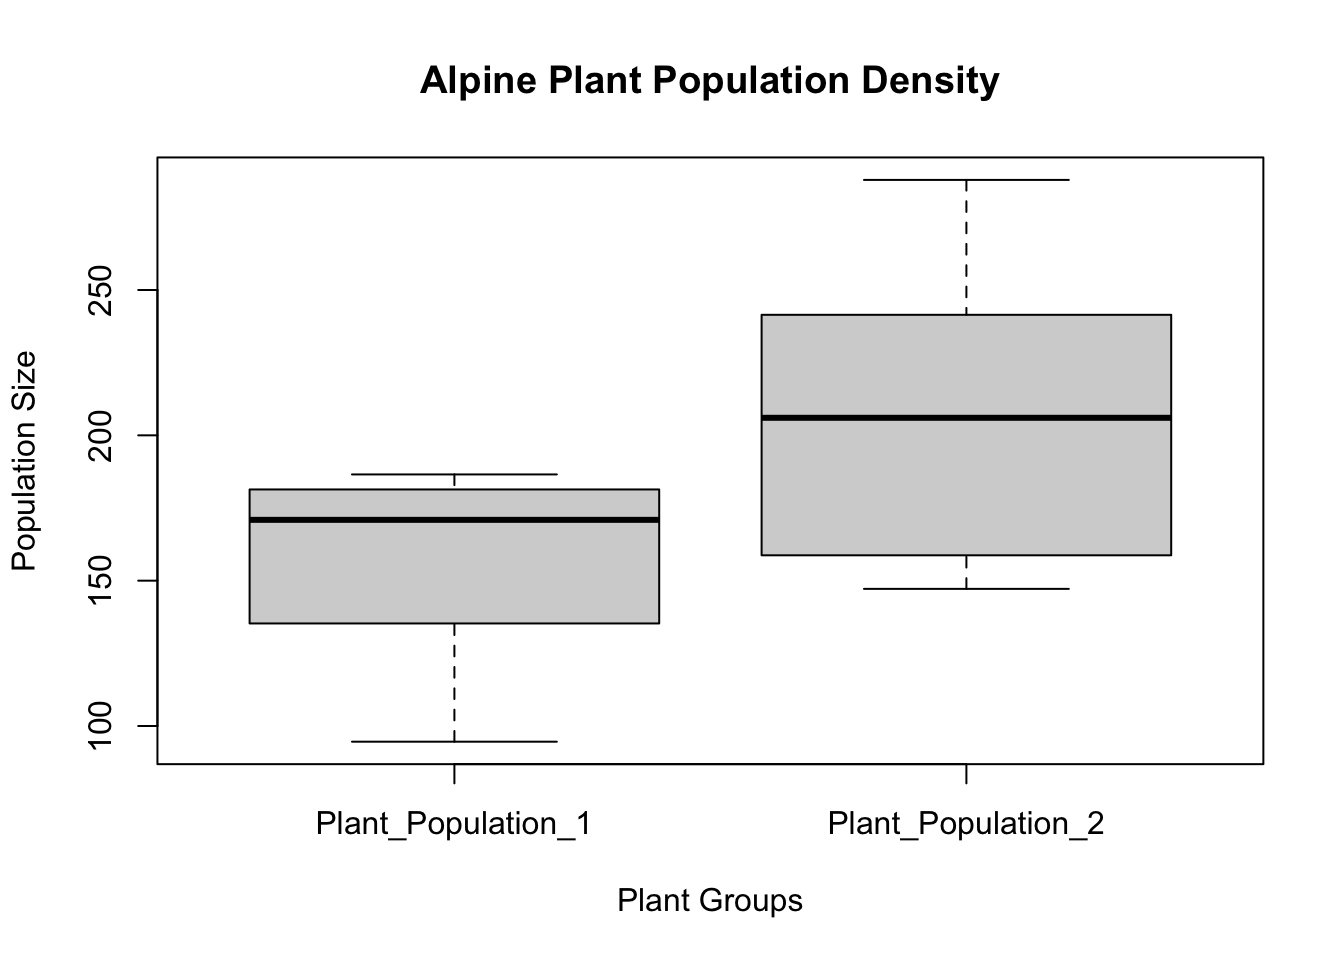
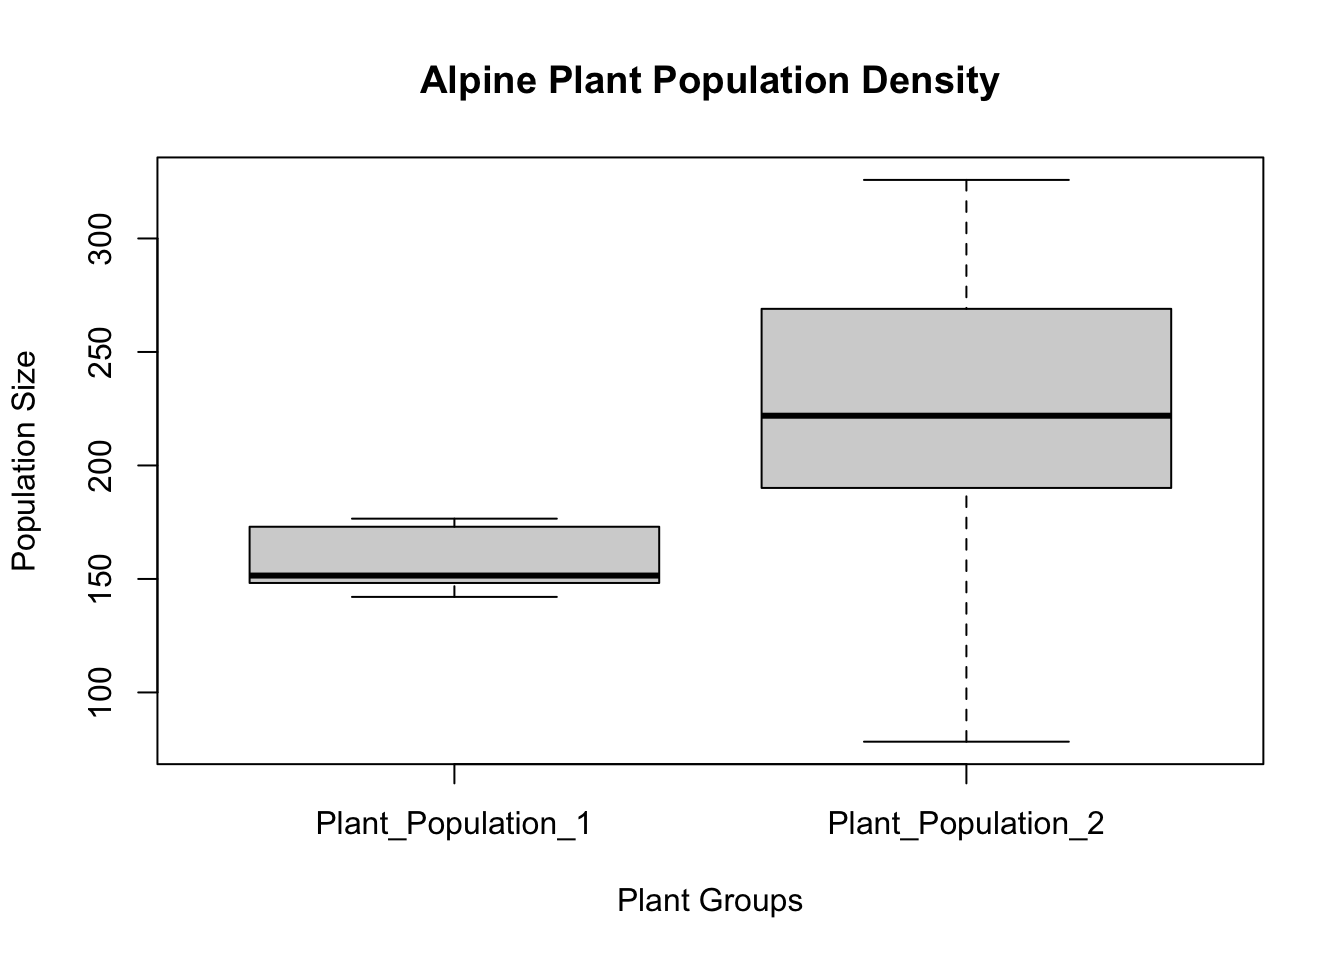
a bunch of updates

diff --git a/docs/homework6.html b/docs/homework6.html
@@ -281,36 +281,36 @@ northeast.</p>
 plantpopulation2 &lt;- rnorm(n=10, mean = 200, sd = 50)
 summary(plantpopulation1)</code></pre>
 <pre><code>##    Min. 1st Qu.  Median    Mean 3rd Qu.    Max. 
-##    94.6   140.5   170.9   158.8   180.5   186.5</code></pre>
+##   142.1   148.4   151.5   158.1   172.9   176.6</code></pre>
 <pre class="r"><code>summary(plantpopulation2)</code></pre>
 <pre><code>##    Min. 1st Qu.  Median    Mean 3rd Qu.    Max. 
-##   147.2   166.1   206.0   207.5   233.7   287.9</code></pre>
+##    78.3   195.0   221.9   222.1   266.6   325.8</code></pre>
 <p>Putting it into a data frame:</p>
 <pre class="r"><code>Plant_Populations &lt;- c(plantpopulation1, plantpopulation2)
 Group_Name &lt;- c(rep(&quot;Plant_Population_1&quot;, length(plantpopulation1)),rep(&quot;Plant_Population_2&quot;,length(plantpopulation2)))
 plant_df &lt;- data.frame(Plant_Populations, Group_Name)
 print(plant_df)</code></pre>
 <pre><code>##    Plant_Populations         Group_Name
-## 1           183.0718 Plant_Population_1
-## 2           186.5484 Plant_Population_1
-## 3           135.2822 Plant_Population_1
-## 4           156.0327 Plant_Population_1
-## 5           167.0249 Plant_Population_1
-## 6           181.3815 Plant_Population_1
-## 7           174.8248 Plant_Population_1
-## 8           131.6103 Plant_Population_1
-## 9           177.7949 Plant_Population_1
-## 10           94.6047 Plant_Population_1
-## 11          202.2911 Plant_Population_2
-## 12          209.7757 Plant_Population_2
-## 13          279.2863 Plant_Population_2
-## 14          149.8358 Plant_Population_2
-## 15          147.1791 Plant_Population_2
-## 16          188.3472 Plant_Population_2
-## 17          210.2223 Plant_Population_2
-## 18          241.4642 Plant_Population_2
-## 19          158.7263 Plant_Population_2
-## 20          287.8728 Plant_Population_2</code></pre>
+## 1          153.54623 Plant_Population_1
+## 2          149.43444 Plant_Population_1
+## 3          172.58439 Plant_Population_1
+## 4          143.38627 Plant_Population_1
+## 5          172.99875 Plant_Population_1
+## 6          148.84810 Plant_Population_1
+## 7          173.52477 Plant_Population_1
+## 8          176.56323 Plant_Population_1
+## 9          148.22976 Plant_Population_1
+## 10         142.09155 Plant_Population_1
+## 11          78.30419 Plant_Population_2
+## 12         325.79661 Plant_Population_2
+## 13         209.59131 Plant_Population_2
+## 14         259.44113 Plant_Population_2
+## 15         323.82776 Plant_Population_2
+## 16         231.94915 Plant_Population_2
+## 17         211.87635 Plant_Population_2
+## 18         190.09649 Plant_Population_2
+## 19         120.68509 Plant_Population_2
+## 20         268.99524 Plant_Population_2</code></pre>
 <p>Plotting the data</p>
 <pre class="r"><code>boxplot(Plant_Populations~Group_Name,data=plant_df, main=&quot;Alpine Plant Population Density&quot;,
         xlab=&quot;Plant Groups&quot;, ylab=&quot;Population Size&quot;)</code></pre>
@@ -319,7 +319,7 @@ print(plant_df)</code></pre>
      main = paste(&quot;Histogram of Plant Populations 1 and 2&quot;),
      xlab = &quot;Population Density&quot;, ylab = &quot;Frequency&quot;)</code></pre>
 <p><img src="homework6_files/figure-html/unnamed-chunk-4-1.png" width="672" /></p>
-<p>Using the same parameters as in the previous step, I am now usign a
+<p>Using the same parameters as in the previous step, I am now using a
 for loop to simulate 20 different iterations of this combined plant
 populations. My original sample size was 10.</p>
 <pre class="r"><code>n_iterations &lt;- 1:20
@@ -335,30 +335,30 @@ for (i in n_iterations){
   cat(&quot;Iteration=&quot;,i,&quot;P-value=&quot;)
 print(test_result$p.value)
 }</code></pre>
-<pre><code>## Iteration= 1 P-value=[1] 0.0002169157
-## Iteration= 2 P-value=[1] 0.05188606
-## Iteration= 3 P-value=[1] 0.006084255
-## Iteration= 4 P-value=[1] 0.03424802
-## Iteration= 5 P-value=[1] 2.766169e-05
-## Iteration= 6 P-value=[1] 0.05564
-## Iteration= 7 P-value=[1] 0.006797384
-## Iteration= 8 P-value=[1] 0.0004279125
-## Iteration= 9 P-value=[1] 0.0002900852
-## Iteration= 10 P-value=[1] 0.006554339
-## Iteration= 11 P-value=[1] 0.008193617
-## Iteration= 12 P-value=[1] 0.001398967
-## Iteration= 13 P-value=[1] 0.00310549
-## Iteration= 14 P-value=[1] 0.0001105781
-## Iteration= 15 P-value=[1] 0.3426132
-## Iteration= 16 P-value=[1] 0.04192405
-## Iteration= 17 P-value=[1] 0.006370688
-## Iteration= 18 P-value=[1] 0.0009069103
-## Iteration= 19 P-value=[1] 0.02240668
-## Iteration= 20 P-value=[1] 0.05720598</code></pre>
+<pre><code>## Iteration= 1 P-value=[1] 0.0006611911
+## Iteration= 2 P-value=[1] 0.009753512
+## Iteration= 3 P-value=[1] 0.01357748
+## Iteration= 4 P-value=[1] 0.2331088
+## Iteration= 5 P-value=[1] 0.0009211153
+## Iteration= 6 P-value=[1] 0.0009953496
+## Iteration= 7 P-value=[1] 0.1478954
+## Iteration= 8 P-value=[1] 0.01037348
+## Iteration= 9 P-value=[1] 0.002711687
+## Iteration= 10 P-value=[1] 0.004646042
+## Iteration= 11 P-value=[1] 7.582555e-05
+## Iteration= 12 P-value=[1] 0.002641124
+## Iteration= 13 P-value=[1] 0.006243736
+## Iteration= 14 P-value=[1] 0.1575119
+## Iteration= 15 P-value=[1] 0.07029946
+## Iteration= 16 P-value=[1] 5.899217e-06
+## Iteration= 17 P-value=[1] 0.3653785
+## Iteration= 18 P-value=[1] 0.007125651
+## Iteration= 19 P-value=[1] 0.03125585
+## Iteration= 20 P-value=[1] 0.06599841</code></pre>
 <p>From the 20 iterations above, I determined that several have a
 p-value of &lt; 0.05 (which changes every time I run the for loop).</p>
 <pre class="r"><code>which(n_iterations &lt; 0.05)</code></pre>
-<pre><code>##  [1]  1  3  4  5  7  8  9 10 11 12 13 14 16 17 18 19</code></pre>
+<pre><code>##  [1]  1  2  3  5  6  8  9 10 11 12 13 16 18 19</code></pre>
 <p>Here I am running the same for loop but I changed the sample size to
 5.</p>
 <pre class="r"><code>n_iterations &lt;- 1:20
@@ -374,31 +374,31 @@ for (i in n_iterations){
   cat(&quot;Iteration=&quot;,i,&quot;P-value=&quot;)
 print(test_result$p.value)
 }</code></pre>
-<pre><code>## Iteration= 1 P-value=[1] 0.04659274
-## Iteration= 2 P-value=[1] 0.0017945
-## Iteration= 3 P-value=[1] 0.4391838
-## Iteration= 4 P-value=[1] 0.9461817
-## Iteration= 5 P-value=[1] 0.005842168
-## Iteration= 6 P-value=[1] 0.502184
-## Iteration= 7 P-value=[1] 0.04082592
-## Iteration= 8 P-value=[1] 0.098309
-## Iteration= 9 P-value=[1] 0.292171
-## Iteration= 10 P-value=[1] 0.01614681
-## Iteration= 11 P-value=[1] 0.1907252
-## Iteration= 12 P-value=[1] 0.00644505
-## Iteration= 13 P-value=[1] 0.04549021
-## Iteration= 14 P-value=[1] 0.426421
-## Iteration= 15 P-value=[1] 0.1409278
-## Iteration= 16 P-value=[1] 0.005666984
-## Iteration= 17 P-value=[1] 0.06464052
-## Iteration= 18 P-value=[1] 0.02934539
-## Iteration= 19 P-value=[1] 0.07892435
-## Iteration= 20 P-value=[1] 0.002371537</code></pre>
+<pre><code>## Iteration= 1 P-value=[1] 0.5914883
+## Iteration= 2 P-value=[1] 0.07547874
+## Iteration= 3 P-value=[1] 0.1182645
+## Iteration= 4 P-value=[1] 0.07391643
+## Iteration= 5 P-value=[1] 0.01605873
+## Iteration= 6 P-value=[1] 0.04096276
+## Iteration= 7 P-value=[1] 0.3915603
+## Iteration= 8 P-value=[1] 0.09745995
+## Iteration= 9 P-value=[1] 0.3252415
+## Iteration= 10 P-value=[1] 0.04209412
+## Iteration= 11 P-value=[1] 0.04450027
+## Iteration= 12 P-value=[1] 0.1406846
+## Iteration= 13 P-value=[1] 0.004415697
+## Iteration= 14 P-value=[1] 0.122951
+## Iteration= 15 P-value=[1] 0.2481722
+## Iteration= 16 P-value=[1] 0.05652193
+## Iteration= 17 P-value=[1] 0.01793776
+## Iteration= 18 P-value=[1] 0.1552073
+## Iteration= 19 P-value=[1] 0.2699335
+## Iteration= 20 P-value=[1] 0.4282987</code></pre>
 <p>Again, from the 20 iterations above with a sample size of 5, I
 determined that several have a p-value of &lt; 0.05 (which changes every
 time I run the for loop).</p>
 <pre class="r"><code>which(n_iterations &lt; 0.05)</code></pre>
-<pre><code>##  [1]  1  2  5  7 10 12 13 16 18 20</code></pre>
+<pre><code>## [1]  5  6 10 11 13 17</code></pre>
 <p>Continuing to use this for loop, I have determined that the smallest
 sample size that is still statistically significant is 2, which is
 rather shocking. Evidence below!</p>
@@ -415,28 +415,28 @@ for (i in n_iterations){
   cat(&quot;Iteration=&quot;,i,&quot;P-value=&quot;)
 print(test_result$p.value)
 }</code></pre>
-<pre><code>## Iteration= 1 P-value=[1] 0.09725856
-## Iteration= 2 P-value=[1] 0.3133718
-## Iteration= 3 P-value=[1] 0.6781508
-## Iteration= 4 P-value=[1] 0.9358842
-## Iteration= 5 P-value=[1] 0.867901
-## Iteration= 6 P-value=[1] 0.04192869
-## Iteration= 7 P-value=[1] 0.3921325
-## Iteration= 8 P-value=[1] 0.1673066
-## Iteration= 9 P-value=[1] 0.4145109
-## Iteration= 10 P-value=[1] 0.4586973
-## Iteration= 11 P-value=[1] 0.1422676
-## Iteration= 12 P-value=[1] 0.3787928
-## Iteration= 13 P-value=[1] 0.3551774
-## Iteration= 14 P-value=[1] 0.1552285
-## Iteration= 15 P-value=[1] 0.6450084
-## Iteration= 16 P-value=[1] 0.1416471
-## Iteration= 17 P-value=[1] 0.5612688
-## Iteration= 18 P-value=[1] 0.1158067
-## Iteration= 19 P-value=[1] 0.385149
-## Iteration= 20 P-value=[1] 0.1406003</code></pre>
+<pre><code>## Iteration= 1 P-value=[1] 0.02987558
+## Iteration= 2 P-value=[1] 0.0971614
+## Iteration= 3 P-value=[1] 0.1185699
+## Iteration= 4 P-value=[1] 0.572452
+## Iteration= 5 P-value=[1] 0.640344
+## Iteration= 6 P-value=[1] 0.8143189
+## Iteration= 7 P-value=[1] 0.7815784
+## Iteration= 8 P-value=[1] 0.5122027
+## Iteration= 9 P-value=[1] 0.8967792
+## Iteration= 10 P-value=[1] 0.2467931
+## Iteration= 11 P-value=[1] 0.07569514
+## Iteration= 12 P-value=[1] 0.6587943
+## Iteration= 13 P-value=[1] 0.4771237
+## Iteration= 14 P-value=[1] 0.6705033
+## Iteration= 15 P-value=[1] 0.05141919
+## Iteration= 16 P-value=[1] 0.456408
+## Iteration= 17 P-value=[1] 0.05302948
+## Iteration= 18 P-value=[1] 0.137276
+## Iteration= 19 P-value=[1] 0.2829937
+## Iteration= 20 P-value=[1] 0.05131062</code></pre>
 <pre class="r"><code>which(n_iterations &lt; 0.05)</code></pre>
-<pre><code>## [1] 6</code></pre>
+<pre><code>## [1] 1</code></pre>
 
 
 

diff --git a/docs/homework5.html b/docs/homework5.html
@@ -284,23 +284,20 @@ square matrix with these elements. Print out the matrix.</p>
 <p>Find a function in r to transpose the matrix. Print it out again and
 note how it has changed.</p>
 <pre class="r"><code>print(t(matrix1))</code></pre>
-<pre><code>##      [,1] [,2] [,3] [,4] [,5] [,6]
-## [1,]   17   35   11   20    9   23
-## [2,]    7   14    4   31    5   15
-## [3,]   30   29   22    3   27   18
-## [4,]    8   28   34   36   25   32
-## [5,]   16   24   26   10   13   12
-## [6,]    6    1   33   19    2   21</code></pre>
+<pre><code>##      [,1] [,2] [,3]
+## [1,]    4    8    6
+## [2,]    7    3    5
+## [3,]    2    1    9</code></pre>
 <p>Calculate the sum and the mean of the elements in the first row and
 then the last row.</p>
 <pre class="r"><code>mean(matrix1[1,])</code></pre>
-<pre><code>## [1] 14</code></pre>
+<pre><code>## [1] 4.333333</code></pre>
 <pre class="r"><code>sum(matrix1[1,])</code></pre>
-<pre><code>## [1] 84</code></pre>
+<pre><code>## [1] 13</code></pre>
 <pre class="r"><code>mean(matrix1[2,])</code></pre>
-<pre><code>## [1] 21.83333</code></pre>
+<pre><code>## [1] 4</code></pre>
 <pre class="r"><code>sum(matrix1[2,])</code></pre>
-<pre><code>## [1] 131</code></pre>
+<pre><code>## [1] 12</code></pre>
 <p>Read about the eigen() function and use it on your matrix. Look
 carefully at the elements of $values and $vectors in the output. What
 kind of numbers are these?</p>
@@ -308,60 +305,49 @@ kind of numbers are these?</p>
 print(matrix_eigen)</code></pre>
 <pre><code>## eigen() decomposition
 ## $values
-## [1] 111.31692+ 0.000000i  11.76447+25.640226i  11.76447-25.640226i
-## [4] -11.13368+ 1.213511i -11.13368- 1.213511i  10.42150+ 0.000000i
+## [1] 14.229691  5.781525 -4.011216
 ## 
 ## $vectors
-##              [,1]                   [,2]                   [,3]
-## [1,] 0.3010943+0i -0.3960740+0.29187046i -0.3960740-0.29187046i
-## [2,] 0.4544884+0i -0.1573407+0.38344226i -0.1573407-0.38344226i
-## [3,] 0.4748746+0i -0.1895685-0.38195644i -0.1895685+0.38195644i
-## [4,] 0.4373895+0i  0.5508918+0.00000000i  0.5508918+0.00000000i
-## [5,] 0.3012935+0i -0.2362464-0.16618861i -0.2362464+0.16618861i
-## [6,] 0.4418023+0i  0.1252135-0.04165128i  0.1252135+0.04165128i
-##                         [,4]                    [,5]          [,6]
-## [1,] -0.26708613-0.22653400i -0.26708613+0.22653400i -0.4632537+0i
-## [2,]  0.25500006+0.36126026i  0.25500006-0.36126026i  0.2145362+0i
-## [3,]  0.50912777+0.14839409i  0.50912777-0.14839409i -0.2052918+0i
-## [4,]  0.06962808-0.18711898i  0.06962808+0.18711898i  0.3363048+0i
-## [5,] -0.58949782+0.00000000i -0.58949782+0.00000000i  0.5225349+0i
-## [6,] -0.06581269+0.09423842i -0.06581269-0.09423842i -0.5577471+0i</code></pre>
+##           [,1]       [,2]        [,3]
+## [1,] 0.4156940 -0.2263863  0.66013725
+## [2,] 0.3701206 -0.3204233 -0.75097823
+## [3,] 0.8307884  0.9198251 -0.01582729</code></pre>
 <p>Dig in with the typeof() function to figure out their type.</p>
 <pre class="r"><code>typeof(matrix_eigen$values)</code></pre>
-<pre><code>## [1] &quot;complex&quot;</code></pre>
+<pre><code>## [1] &quot;double&quot;</code></pre>
 <pre class="r"><code>typeof(matrix_eigen$vectors)</code></pre>
-<pre><code>## [1] &quot;complex&quot;</code></pre>
+<pre><code>## [1] &quot;double&quot;</code></pre>
 <p><u>Question 2:</u> Create a list with the following named
 elements:</p>
 <p>my_matrix, which is a 4 x 4 matrix filled with random uniform
 values</p>
 <pre class="r"><code>my_matrix &lt;- matrix(data=runif(16), nrow=4)
 print(my_matrix)</code></pre>
-<pre><code>##           [,1]       [,2]       [,3]      [,4]
-## [1,] 0.3798419 0.01159015 0.82357907 0.3528507
-## [2,] 0.7850076 0.03381200 0.08428118 0.2442100
-## [3,] 0.2914437 0.19137312 0.80549610 0.2030126
-## [4,] 0.9513974 0.94495472 0.18091715 0.2054605</code></pre>
+<pre><code>##           [,1]      [,2]       [,3]      [,4]
+## [1,] 0.7179933 0.8555319 0.01870619 0.2329499
+## [2,] 0.6627853 0.2284448 0.44831101 0.6633043
+## [3,] 0.8643572 0.1510975 0.94129602 0.8571178
+## [4,] 0.5111155 0.5992460 0.24025464 0.4036374</code></pre>
 <p>my_logical which is a 100-element vector of TRUE or FALSE values. Do
 this efficiently by setting up a vector of random values and then
 applying an inequality to it.</p>
 <pre class="r"><code>my_logical &lt;- (runif(100) &gt; .8)
 print(my_logical)</code></pre>
-<pre><code>##   [1] FALSE FALSE FALSE FALSE  TRUE  TRUE FALSE FALSE FALSE FALSE FALSE  TRUE
-##  [13] FALSE FALSE FALSE FALSE FALSE FALSE FALSE FALSE FALSE  TRUE FALSE FALSE
-##  [25] FALSE FALSE FALSE FALSE FALSE FALSE FALSE FALSE FALSE  TRUE FALSE FALSE
-##  [37] FALSE  TRUE FALSE FALSE FALSE FALSE FALSE FALSE FALSE FALSE FALSE FALSE
-##  [49] FALSE FALSE FALSE FALSE  TRUE FALSE FALSE FALSE FALSE FALSE FALSE FALSE
-##  [61]  TRUE FALSE FALSE FALSE  TRUE FALSE FALSE  TRUE FALSE FALSE FALSE  TRUE
-##  [73] FALSE  TRUE FALSE FALSE FALSE  TRUE  TRUE FALSE FALSE  TRUE FALSE  TRUE
+<pre><code>##   [1] FALSE FALSE FALSE FALSE  TRUE FALSE FALSE FALSE FALSE FALSE  TRUE  TRUE
+##  [13]  TRUE FALSE FALSE FALSE FALSE FALSE FALSE FALSE FALSE FALSE FALSE FALSE
+##  [25] FALSE FALSE FALSE FALSE  TRUE FALSE FALSE FALSE FALSE  TRUE FALSE FALSE
+##  [37] FALSE FALSE  TRUE FALSE  TRUE FALSE FALSE FALSE FALSE FALSE  TRUE FALSE
+##  [49] FALSE FALSE FALSE FALSE FALSE FALSE  TRUE FALSE FALSE FALSE FALSE FALSE
+##  [61] FALSE FALSE FALSE FALSE FALSE FALSE FALSE  TRUE FALSE FALSE  TRUE FALSE
+##  [73] FALSE FALSE FALSE FALSE FALSE  TRUE FALSE FALSE FALSE FALSE FALSE FALSE
 ##  [85] FALSE FALSE FALSE FALSE FALSE FALSE FALSE FALSE FALSE FALSE FALSE FALSE
-##  [97] FALSE FALSE FALSE FALSE</code></pre>
+##  [97] FALSE FALSE FALSE  TRUE</code></pre>
 <p>my_letters, which is a 26-element vector of all the lower-case
 letters in random order.</p>
 <pre class="r"><code>my_letters &lt;- sample(letters[1:26])
 print(my_letters)</code></pre>
-<pre><code>##  [1] &quot;q&quot; &quot;i&quot; &quot;x&quot; &quot;c&quot; &quot;k&quot; &quot;e&quot; &quot;y&quot; &quot;b&quot; &quot;h&quot; &quot;p&quot; &quot;s&quot; &quot;n&quot; &quot;u&quot; &quot;v&quot; &quot;j&quot; &quot;l&quot; &quot;z&quot; &quot;o&quot; &quot;w&quot;
-## [20] &quot;g&quot; &quot;f&quot; &quot;t&quot; &quot;r&quot; &quot;d&quot; &quot;m&quot; &quot;a&quot;</code></pre>
+<pre><code>##  [1] &quot;y&quot; &quot;v&quot; &quot;r&quot; &quot;h&quot; &quot;b&quot; &quot;u&quot; &quot;f&quot; &quot;p&quot; &quot;g&quot; &quot;i&quot; &quot;n&quot; &quot;z&quot; &quot;d&quot; &quot;o&quot; &quot;x&quot; &quot;s&quot; &quot;e&quot; &quot;c&quot; &quot;a&quot;
+## [20] &quot;j&quot; &quot;q&quot; &quot;m&quot; &quot;t&quot; &quot;w&quot; &quot;l&quot; &quot;k&quot;</code></pre>
 <p>Create a new list, which has the element[2,2] from the matrix, the
 second element of the logical vector, and the second element of the
 letters vector.</p>
@@ -381,7 +367,7 @@ atomic vector with the c() function. What is the data type of this
 vector?</p>
 <pre class="r"><code>combined_elements_vector &lt;- c(new_list[[1]], new_list[[2]], new_list[[3]])
 print(combined_elements_vector)</code></pre>
-<pre><code>## [1] &quot;0.0338120008818805&quot; &quot;FALSE&quot;              &quot;i&quot;</code></pre>
+<pre><code>## [1] &quot;0.228444766253233&quot; &quot;FALSE&quot;             &quot;v&quot;</code></pre>
 <pre class="r"><code>typeof(combined_elements_vector)</code></pre>
 <pre><code>## [1] &quot;character&quot;</code></pre>
 <p><u>Question 3:</u> Create a data frame with the two variables (=
@@ -396,7 +382,7 @@ random rows and replace the numerical values in those rows with NA.</p>
 <p>For the first variable, write a single line of R code to identify
 which rows have the missing values.</p>
 <pre class="r"><code>print(which(is.na(dataframe$my_unis)))</code></pre>
-<pre><code>## [1] 1 2 3 4</code></pre>
+<pre><code>## [1] 1 3 4 5</code></pre>
 <p>Re-order the entire data frame to arrange the second variable in
 alphabetical order</p>
 <pre class="r"><code>dataframe[order(dataframe$my_letters),2]</code></pre>
@@ -404,7 +390,7 @@ alphabetical order</p>
 ## [20] &quot;T&quot; &quot;U&quot; &quot;V&quot; &quot;W&quot; &quot;X&quot; &quot;Y&quot; &quot;Z&quot;</code></pre>
 <p>Calculate the column mean for the first variable.</p>
 <pre class="r"><code>mean(dataframe$my_unis, na.rm=TRUE)</code></pre>
-<pre><code>## [1] 4.774864</code></pre>
+<pre><code>## [1] 4.098367</code></pre>
 
 
 

diff --git a/docs/homework4.html b/docs/homework4.html
@@ -322,12 +322,12 @@ that has been mapped). Using one of R’s inverse trigonometry functions
 coordinates.</p>
 <pre class="r"><code>cartesian_coords &lt;- runif(2)
 print(cartesian_coords)</code></pre>
-<pre><code>## [1] 0.5785623 0.8631710</code></pre>
+<pre><code>## [1] 0.6735196 0.3205393</code></pre>
 <pre class="r"><code>r &lt;- sqrt(cartesian_coords[1])^2 + (cartesian_coords[2])^2
 theta &lt;- atan(cartesian_coords[2]/cartesian_coords[1])
 polar_coords &lt;- c(r, theta)
 print(polar_coords)</code></pre>
-<pre><code>## [1] 1.3236265 0.9802996</code></pre>
+<pre><code>## [1] 0.7762651 0.4441961</code></pre>
 <p><u>Question 4:</u> Create a vector queue &lt;- c(“sheep”, “fox”,
 “owl”, “ant”) where queue represents the animals that are lined up to
 enter Noah’s Ark, with the sheep at the front of the line. Using R

diff --git a/docs/homeworklinks.html b/docs/homeworklinks.html
@@ -283,7 +283,8 @@ Data Sets To Explore Hypotheses</a></p></li>
 <li><p>February 26 | Week 7 | <a href="homework7.html">Data
 Manipulations Using the dplyr Package</a></p></li>
 <li><p>March 5 | Week 8 | No Homework / Catch up day</p></li>
-<li><p>March 19 | Week 9 |</p></li>
+<li><p>March 19 | Week 9 | <a href="homework8.html">Simulating and
+Fitting Data Distributions</a></p></li>
 <li><p>March 26 | Week 10 |</p></li>
 <li><p>April 2 | Week 11 |</p></li>
 <li><p>April 9 | Week 12 |</p></li>
